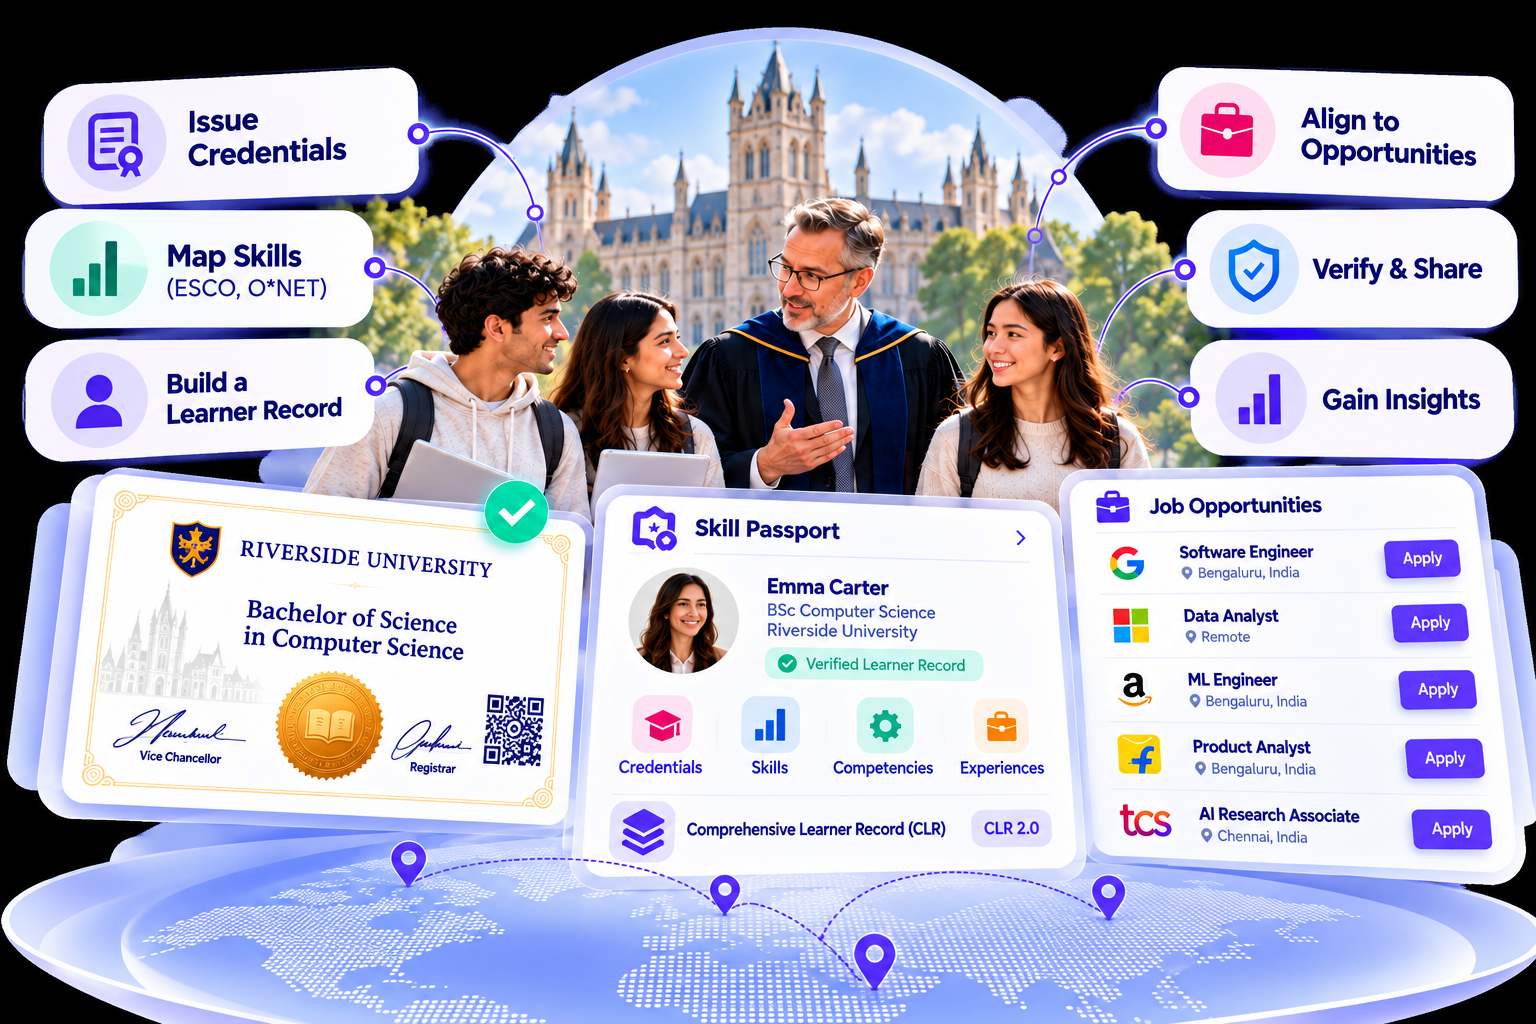
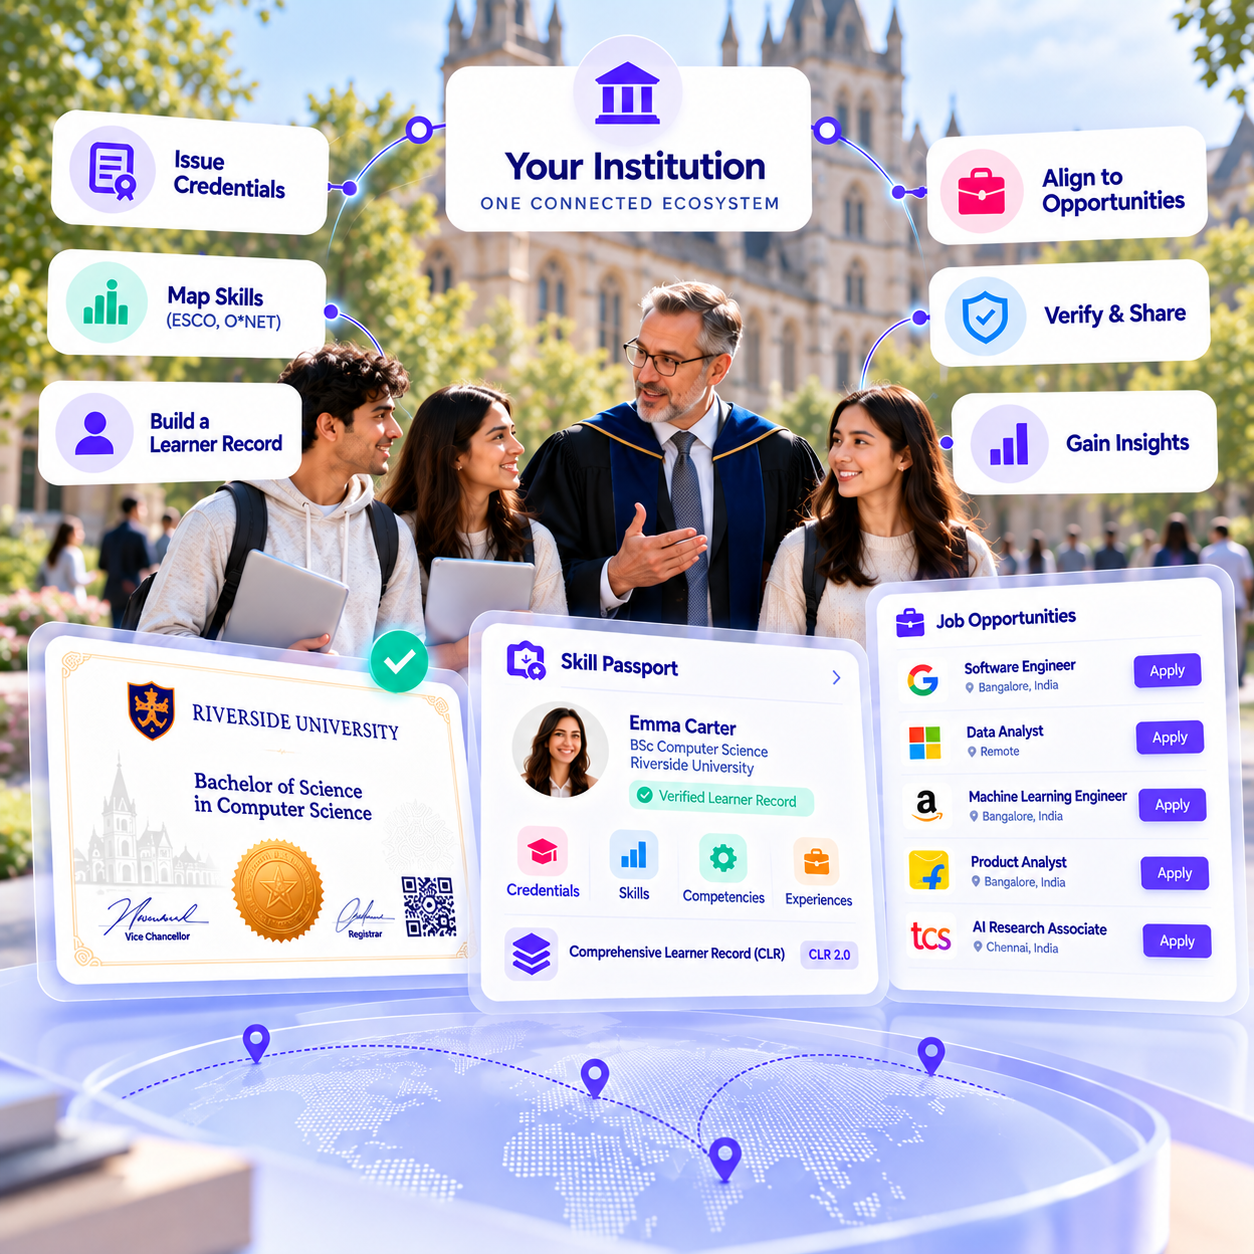
Update credential validation logic and asset documentation
Replit-Commit-Author: Agent

diff --git a/scripts/validate-credential-institution-outcomes.js b/scripts/validate-credential-institution-outcomes.js
@@ -43,8 +43,8 @@ async function main() {
           };
         });
         assert.equal(metrics.src, "/assets4/images/credential-institution-outcomes.webp");
-        assert.deepEqual(metrics.dimensions, [1536, 1024]);
-        assert(Math.abs(metrics.ratio - 1.5) < .01, "Preserve the complete supplied illustration.");
+        assert.deepEqual(metrics.dimensions, [1254, 1254]);
+        assert(Math.abs(metrics.ratio - 1) < .01, "Preserve the complete supplied illustration.");
         assert.match(metrics.mask, /linear-gradient/);
         assert.equal(metrics.filter, "none", "Keep the artwork's text sharp.");
         assert.match(metrics.alt, /[Cc]onceptual/);

diff --git a/_includes/V4NewLook/credential-institution-outcomes.html b/_includes/V4NewLook/credential-institution-outcomes.html
@@ -12,8 +12,8 @@
       <figure class="credential-institution-outcomes__artwork">
         <img
           src="/assets4/images/credential-institution-outcomes.webp"
-          width="1536"
-          height="1024"
+          width="1254"
+          height="1254"
           alt="Conceptual illustration of a university connecting credentials, skills, a learner record, sharing and example opportunities. Logos, job cards and profile details are illustrative."
           loading="lazy"
           decoding="async">

diff --git a/assets4/css/credential-institution-outcomes.css b/assets4/css/credential-institution-outcomes.css
@@ -79,7 +79,7 @@
   display: block;
   width: 100%;
   height: auto;
-  aspect-ratio: 3 / 2;
+  aspect-ratio: 1;
   object-fit: contain;
 }
 
